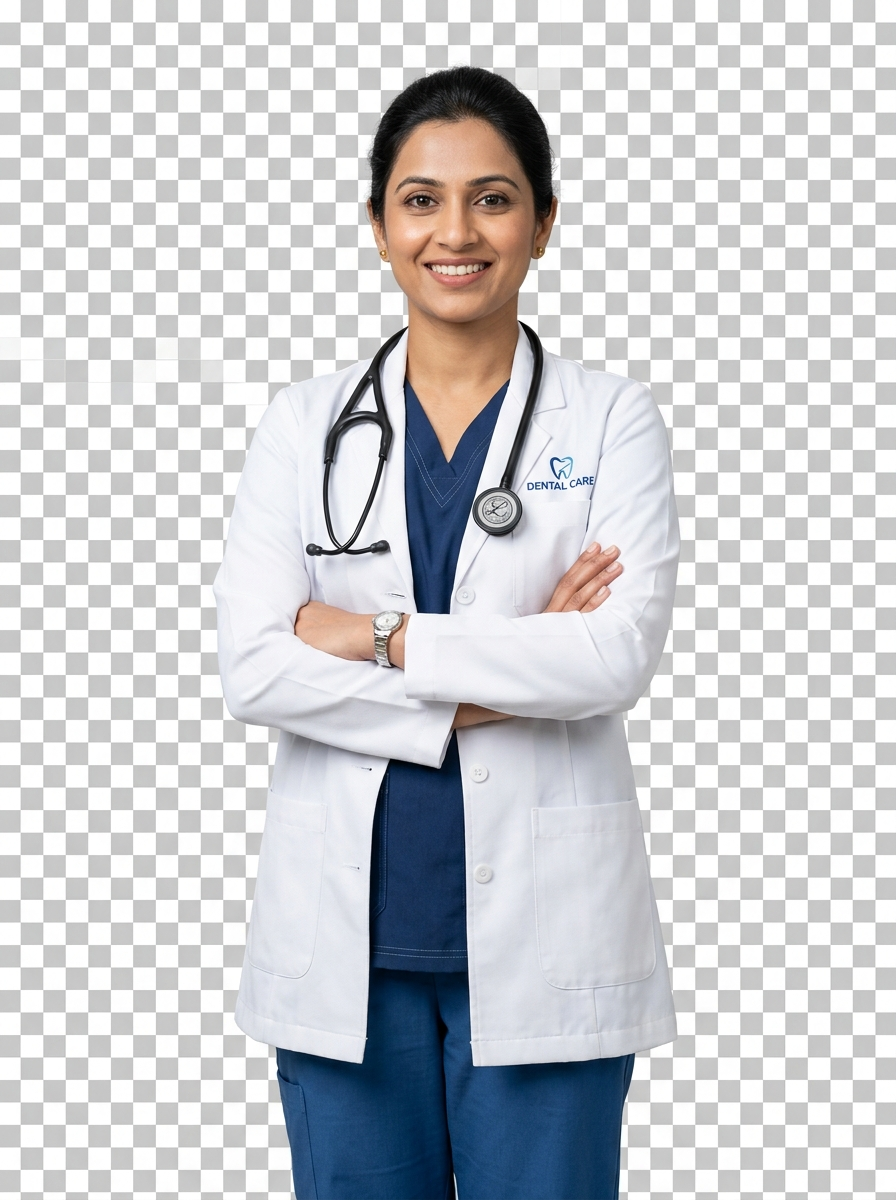
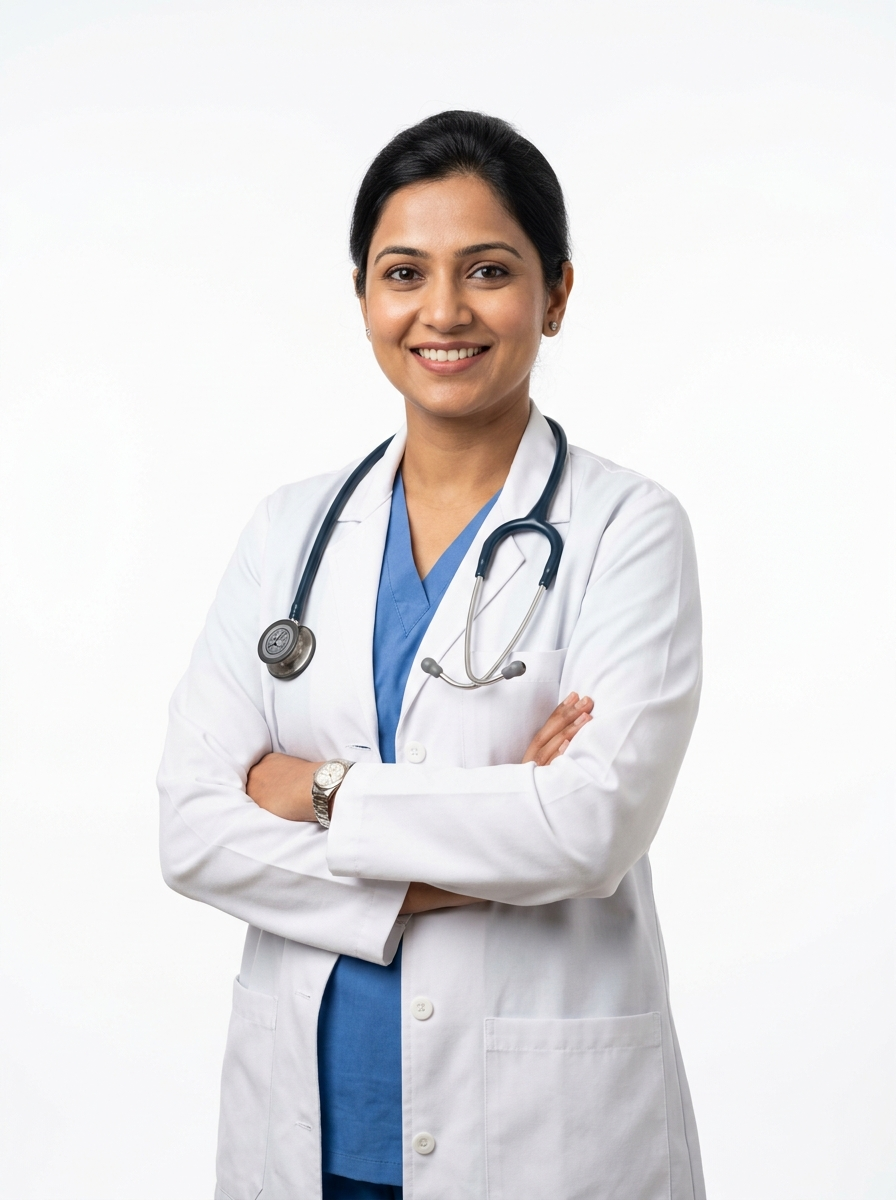
fix: remove checkerboard pattern and seamlessly integrate solid white background dentist portrait

diff --git a/src/routes/doctor-login.tsx b/src/routes/doctor-login.tsx
@@ -87,7 +87,7 @@ function DoctorLoginPage() {
         <img
           src={clinicBg}
           alt="Dental Clinic Environment"
-          className="w-full h-full object-cover object-center filter blur-[5px] scale-105 opacity-40"
+          className="w-full h-full object-cover object-center filter blur-[6px] scale-105 opacity-40"
         />
         <div className="absolute inset-0 bg-[linear-gradient(135deg,rgba(244,247,255,0.85)_0%,rgba(235,241,255,0.75)_50%,rgba(245,237,254,0.85)_100%)] mix-blend-multiply" />
         <div className="absolute -top-32 -left-32 h-[500px] w-[500px] rounded-full bg-blue-300/20 blur-3xl" />
@@ -127,13 +127,23 @@ function DoctorLoginPage() {
         </div>
       </header>
 
-      {/* 3. MAIN CONTENT CONTAINER: 60% Left Hero / 40% Right Login */}
-      <main className="relative z-10 w-full max-w-[1420px] mx-auto px-4 sm:px-6 my-2 sm:my-4 flex-1 grid lg:grid-cols-[1.52fr_1fr] gap-6 items-stretch">
+      {/* 3. MAIN CONTENT CONTAINER: 61% Left Hero / 39% Right Login */}
+      <main className="relative z-10 w-full max-w-[1420px] mx-auto px-4 sm:px-6 my-2 sm:my-4 flex-1 grid lg:grid-cols-[1.55fr_1fr] gap-5 items-stretch">
         {/* 4. LEFT HERO PANEL */}
-        <div className="relative rounded-[32px] overflow-hidden border border-white/80 shadow-[0_25px_70px_-15px_rgba(49,85,217,0.25)] bg-[linear-gradient(135deg,rgba(49,85,217,0.92)_0%,rgba(79,54,221,0.88)_35%,rgba(123,59,219,0.88)_70%,rgba(216,60,207,0.92)_100%)] p-7 sm:p-10 lg:p-12 text-white flex flex-col justify-between">
+        <div className="relative rounded-[28px] overflow-hidden border border-white/80 shadow-[0_25px_70px_-15px_rgba(49,85,217,0.25)] p-7 sm:p-10 lg:p-12 text-white flex flex-col justify-between">
+          {/* Dental clinic photo inside hero panel under gradient */}
+          <div className="absolute inset-0 z-0 pointer-events-none overflow-hidden">
+            <img
+              src={clinicBg}
+              alt="Clinic Background"
+              className="w-full h-full object-cover filter blur-[3px] scale-105 opacity-30"
+            />
+            <div className="absolute inset-0 bg-[linear-gradient(135deg,rgba(49,85,217,0.92)_0%,rgba(79,54,221,0.88)_35%,rgba(123,59,219,0.88)_70%,rgba(216,60,207,0.92)_100%)]" />
+          </div>
+
           {/* Ambient Glows inside hero */}
-          <div className="pointer-events-none absolute -top-24 -left-24 h-96 w-96 rounded-full bg-white/10 blur-3xl" />
-          <div className="pointer-events-none absolute bottom-1/3 right-0 h-80 w-80 rounded-full bg-pink-400/20 blur-3xl" />
+          <div className="pointer-events-none absolute -top-24 -left-24 h-96 w-96 rounded-full bg-white/10 blur-3xl z-0" />
+          <div className="pointer-events-none absolute bottom-1/3 right-0 h-80 w-80 rounded-full bg-pink-400/20 blur-3xl z-0" />
 
           {/* Top Row: Portal Label & Handwritten Script */}
           <div className="relative z-20 flex items-start justify-between">
@@ -224,16 +234,16 @@ function DoctorLoginPage() {
               </div>
             </div>
 
-            {/* 5. Doctor Image: Female Dentist in White Coat over Blue Scrubs */}
-            <div className="relative flex items-end justify-center h-full min-h-[300px]">
+            {/* 5. Doctor Image: Clean Integrated Dentist with White Coat & Blue Scrubs */}
+            <div className="relative flex items-end justify-center h-full min-h-[320px]">
               <img
                 src={doctorPortrait}
                 alt="SmileCare Specialist Doctor"
-                className="absolute bottom-0 right-0 sm:-right-4 w-full max-w-[340px] sm:max-w-[420px] lg:max-w-[460px] h-auto object-contain object-bottom pointer-events-none z-10 drop-shadow-[0_25px_40px_rgba(0,0,0,0.35)]"
+                className="absolute bottom-0 right-0 sm:-right-2 w-full max-w-[340px] sm:max-w-[410px] lg:max-w-[450px] h-auto object-contain object-bottom pointer-events-none z-10 mix-blend-multiply drop-shadow-[0_20px_35px_rgba(0,0,0,0.3)] [mask-image:linear-gradient(to_bottom,black_82%,transparent_100%)]"
               />
 
               {/* 10. Floating Doctor Badge */}
-              <div className="absolute right-2 bottom-12 z-20 hidden sm:flex items-center gap-3 rounded-2xl border border-white/40 bg-white/85 backdrop-blur-md p-3 text-slate-900 shadow-xl max-w-[210px]">
+              <div className="absolute right-2 bottom-12 z-20 hidden sm:flex items-center gap-3 rounded-2xl border border-white/40 bg-white/90 backdrop-blur-md p-3 text-slate-900 shadow-xl max-w-[210px]">
                 <span className="grid h-9 w-9 shrink-0 place-items-center rounded-xl bg-brand text-white shadow-sm">
                   <ToothIcon className="h-5 w-5" />
                 </span>
@@ -275,7 +285,7 @@ function DoctorLoginPage() {
         </div>
 
         {/* 12. RIGHT LOGIN PANEL */}
-        <div className="rounded-[32px] bg-white border border-slate-100 shadow-[0_25px_70px_-15px_rgba(49,85,217,0.18)] p-7 sm:p-10 lg:p-12 flex flex-col justify-between">
+        <div className="rounded-[28px] bg-white border border-slate-100 shadow-[0_25px_70px_-15px_rgba(49,85,217,0.18)] p-7 sm:p-10 lg:p-12 flex flex-col justify-between">
           <div className="max-w-[420px] mx-auto w-full flex-1 flex flex-col justify-center">
             {/* 13. Login Header */}
             <div>
